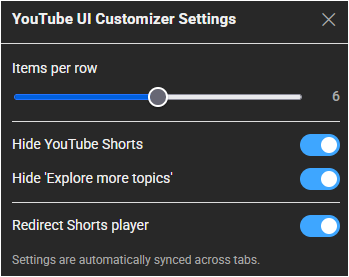
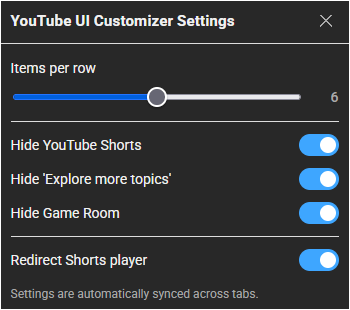
feat(ui): [YTUIC] 1.3.1: Add feature to hide Game Room (Playables) section
This commit introduces a new customization option to hide the newly added "Game Room" (Playables) shelf from the YouTube feed.

- **feat(config): Add Game Room Selectors and Config State**
  - Added a `gameRoom` array to `CONSTANTS.SELECTORS`, specifically targeting `ytd-rich-section-renderer:has(ytd-mini-game-card-view-model)` to safely and accurately identify the game shelf without affecting standard content shelves.
  - Introduced the `hideGameRoom` property to `DEFAULT_CONFIG.options` (enabled by default).
- **feat(ui): Update Settings Modal**
  - Added a new "Hide Game Room" toggle switch with a corresponding description to the `SettingsModal` (`_createPanelContent`).
  - Updated the `populateForm` and `_collectDataFromForm` methods to correctly read from and write to the new configuration state.
- **feat(style): Implement CSS Hiding Logic**
  - Modified `StyleManager.update` to dynamically generate and inject `display: none !important;` rules for the Game Room selectors when the feature is enabled by the user.

diff --git a/scripts/YouTube-UI-Customizer/YouTube-UI-Customizer.user.js b/scripts/YouTube-UI-Customizer/YouTube-UI-Customizer.user.js
@@ -1,9 +1,9 @@
 // ==UserScript==
 // @name         YouTube-UI-Customizer
 // @namespace    https://github.com/p65536
-// @version      1.3.0
+// @version      1.3.1
 // @license      MIT
-// @description  Enhances your YouTube experience. Customize the video grid layout by adjusting thumbnails per row, hide Shorts content, and automatically redirect the Shorts player to the standard video player.
+// @description  Customize your YouTube grid layout (thumbnails per row) and declutter your feed by hiding Shorts, Game Room, and 'Explore' sections. Includes an automatic Shorts-to-standard-player redirect.
 // @icon         https://www.youtube.com/favicon.ico
 // @author       p65536
 // @match        https://www.youtube.com/*
@@ -241,6 +241,7 @@
                 'grid-shelf-view-model:has(ytm-shorts-lockup-view-model)',
             ],
             moreTopics: 'ytd-rich-section-renderer:has(ytd-chips-shelf-with-video-shelf-renderer)',
+            gameRoom: ['ytd-rich-section-renderer:has(ytd-mini-game-card-view-model)'],
         },
         UI_DEFAULTS: {
             MODAL: {
@@ -259,6 +260,7 @@
             itemsPerRow: 5,
             hideShorts: true,
             hideMoreTopics: true,
+            hideGameRoom: true,
             redirectShorts: true,
         },
     };
@@ -888,6 +890,10 @@
                     h('label', { htmlFor: `${APPID}-hide-more-topics-toggle` }, "Hide 'Explore more topics'"),
                     createToggle(`${APPID}-hide-more-topics-toggle`, "Hides the 'Explore more topics' section from the feed."),
                 ]),
+                h(`div.${APPID}-submenu-row`, { style: { marginTop: '12px' } }, [
+                    h('label', { htmlFor: `${APPID}-hide-game-room-toggle` }, 'Hide Game Room'),
+                    createToggle(`${APPID}-hide-game-room-toggle`, 'Hides the Game Room (Playables) section from the feed.'),
+                ]),
                 h('div', { style: { borderTop: '1px solid var(--yt-spec-border-primary, #ddd)', margin: '12px 0' } }),
                 h(`div.${APPID}-submenu-row`, [
                     h('label', { htmlFor: `${APPID}-redirect-shorts-toggle` }, 'Redirect Shorts player'),
@@ -928,6 +934,7 @@
 
             updateField(`#${APPID}-hide-shorts-toggle`, config.options.hideShorts, true);
             updateField(`#${APPID}-hide-more-topics-toggle`, config.options.hideMoreTopics, true);
+            updateField(`#${APPID}-hide-game-room-toggle`, config.options.hideGameRoom, true);
             updateField(`#${APPID}-redirect-shorts-toggle`, config.options.redirectShorts, true);
 
             this._setupEventListeners();
@@ -967,6 +974,9 @@
 
             const hideMore = this.element.querySelector(`#${APPID}-hide-more-topics-toggle`);
             if (hideMore) newConfig.options.hideMoreTopics = hideMore.checked;
+
+            const hideGameRoom = this.element.querySelector(`#${APPID}-hide-game-room-toggle`);
+            if (hideGameRoom) newConfig.options.hideGameRoom = hideGameRoom.checked;
 
             const redirect = this.element.querySelector(`#${APPID}-redirect-shorts-toggle`);
             if (redirect) newConfig.options.redirectShorts = redirect.checked;
@@ -1214,7 +1224,7 @@
         }
 
         static update(options) {
-            const { itemsPerRow, hideShorts, hideMoreTopics } = options;
+            const { itemsPerRow, hideShorts, hideMoreTopics, hideGameRoom } = options;
             const GAP = 12; // A reasonable default gap in pixels
 
             let cssText = `
@@ -1254,9 +1264,19 @@
                 `;
             }
 
+            if (hideGameRoom) {
+                const gameRoomSelectorsToHide = CONSTANTS.SELECTORS.gameRoom.join(',\n');
+                cssText += `
+                    /* CSS to hide Game Room section */
+                    ${gameRoomSelectorsToHide} {
+                        display: none !important;
+                    }
+                `;
+            }
+
             if (this.styleElement.textContent !== cssText) {
                 this.styleElement.textContent = cssText;
-                Logger.log(`Styles updated: ItemsPerRow=${itemsPerRow}, HideShorts=${hideShorts}, HideMoreTopics=${hideMoreTopics}`);
+                Logger.log(`Styles updated: ItemsPerRow=${itemsPerRow}, HideShorts=${hideShorts}, HideMoreTopics=${hideMoreTopics}, HideGameRoom=${hideGameRoom}`);
             }
         }
     }

diff --git a/README.md b/README.md
@@ -12,6 +12,9 @@ A collection of simple, single-purpose userscripts for various websites.
 
 ## Recent Updates
 
+### 2026-03-11
+- Updated `YouTube UI Customizer` (v1.3.0 -> v1.3.1)  
+
 ### 2026-02-08
 - Updated `Image Search Direct View` (v1.0.1 -> v1.1.1)  
 
@@ -21,9 +24,6 @@ A collection of simple, single-purpose userscripts for various websites.
 ### 2026-01-04
 - Published a new script `Image Search Direct View` (v1.0.0)  
 - Separated NSFW scripts to [`NSFW.md`](./NSFW.md)
-
-### 2025-12-07
-- Updated `YouTube UI Customizer` (v1.2.1 -> v1.3.0)  
 
 ---
 
@@ -39,7 +39,7 @@ A script that enhances your YouTube experience. You can customize the video grid
 
 | Platform | GitHub | Greasy Fork | Version | Last Updated | Changelog |
 | :--- | :--- | :--- | :--- | :--- | :--- |
-| **YouTube** | [![Download](https://img.shields.io/badge/Download-blue?style=flat-square&logo=download)](https://raw.githubusercontent.com/p65536/Userscripts-Collection/main/scripts/YouTube-UI-Customizer/YouTube-UI-Customizer.user.js) | [![Greasy Fork](https://img.shields.io/badge/Install-green?style=flat-square&logo=greasyfork)](https://greasyfork.org/en/scripts/546668-youtube-ui-customizer) | 1.3.0 | 2025-12-07 | [View](./docs/YouTube-UI-Customizer/CHANGELOG.md) |
+| **YouTube** | [![Download](https://img.shields.io/badge/Download-blue?style=flat-square&logo=download)](https://raw.githubusercontent.com/p65536/Userscripts-Collection/main/scripts/YouTube-UI-Customizer/YouTube-UI-Customizer.user.js) | [![Greasy Fork](https://img.shields.io/badge/Install-green?style=flat-square&logo=greasyfork)](https://greasyfork.org/en/scripts/546668-youtube-ui-customizer) | 1.3.1 | 2026-03-12 | [View](./docs/YouTube-UI-Customizer/CHANGELOG.md) |
 
 <details>
   <summary>Getting Started (Click to expand)</summary>

diff --git a/docs/YouTube-UI-Customizer/CHANGELOG.md b/docs/YouTube-UI-Customizer/CHANGELOG.md
@@ -1,5 +1,10 @@
 # Changelog
 
+## [1.3.1] - 2026-03-12
+- **New Features**
+  - Added a new feature to hide the recently introduced **Game Room (Playables)** section from the YouTube feed (enabled by default).
+  - A "Hide Game Room" toggle has been added to the settings panel to easily enable or disable this feature.
+
 ## [1.3.0] - 2025-12-07
 - **UI & Experience**
   - **New Settings Interface:** Replaced the floating on-screen button with a clean modal overlay. Settings are now accessed via the script manager's menu command (e.g., Tampermonkey menu).
